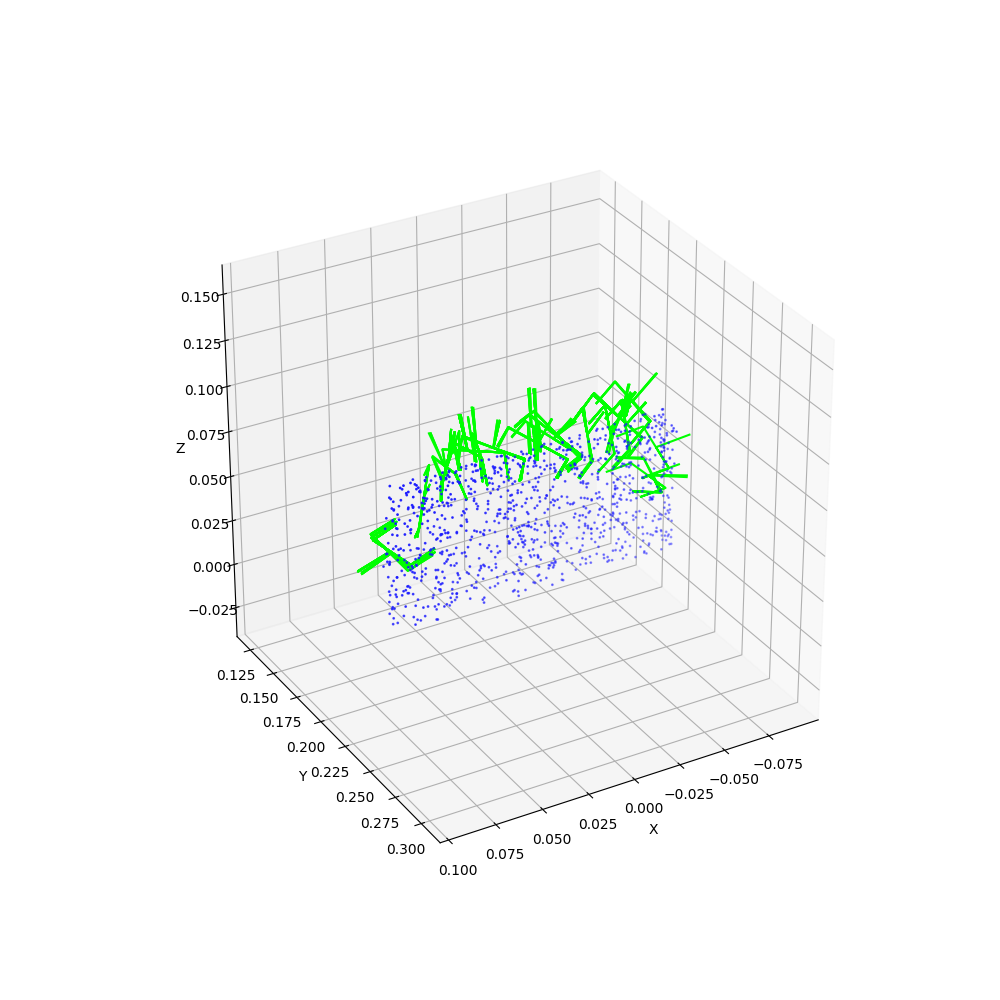
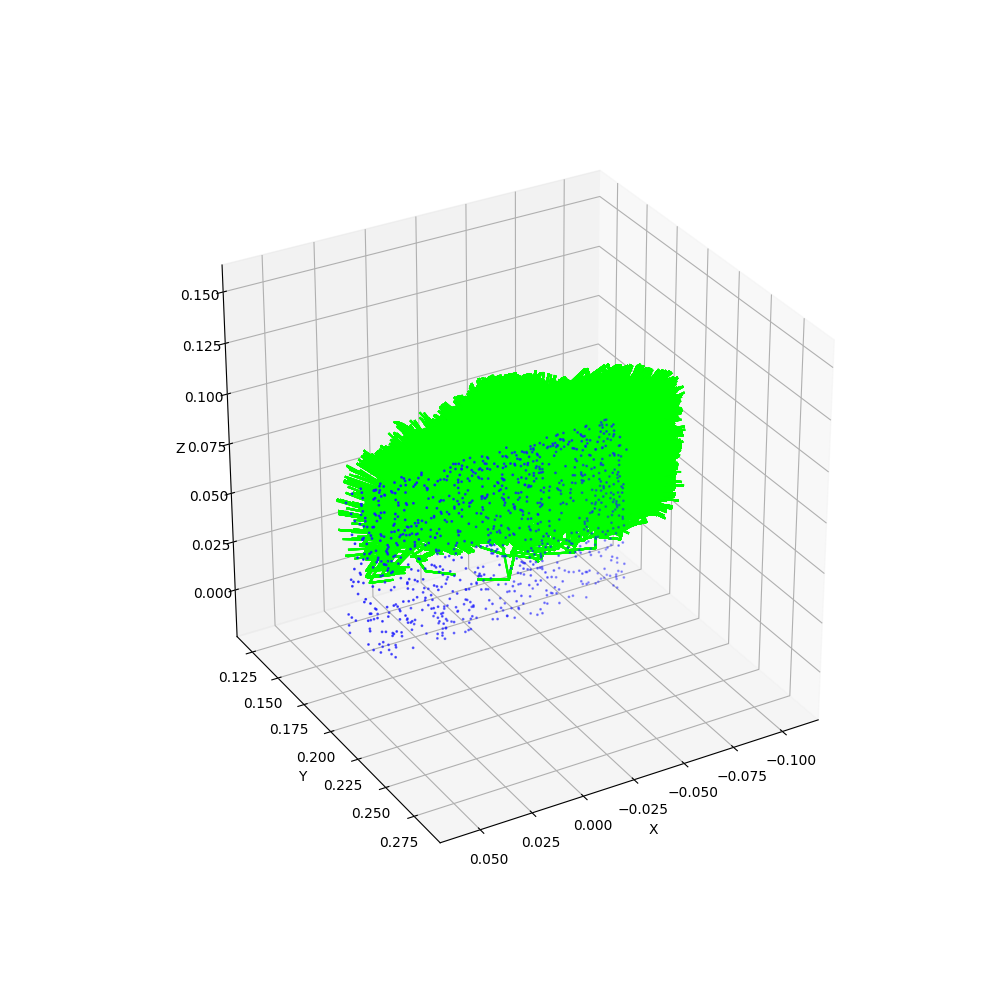
continued work on robot integration

Changed region(s): [[0.186, 0.186, 0.837, 0.868], [0.558, 0.775, 0.651, 0.837], [0.465, 0.837, 0.558, 0.868]]

diff --git a/robot_integration.py b/robot_integration.py
@@ -67,27 +67,33 @@ class PointcloudParser():
         generated_grasps, generated_scores, downsampled_pc = self.estimator.generate_and_refine_grasps(
                     pc_data_no_table)
 
-        draw_scene(downsampled_pc.cpu().numpy(), grasps=new_grasps, save_path='./demo/grasps_with_unwanted_pairs.png')
+        draw_scene(downsampled_pc.cpu().numpy(), grasps=generated_grasps, save_path='./demo/grasps_with_unwanted_pairs.png')
         #randomly shuffle the grasps as most of the grasp pairs consist of very similar grasps
-        np.random.shuffle(generated_grasps)
+        # np.random.shuffle(generated_grasps)
 
         ###Remove pairs of grasps where both are on the same side of the object.
         ###This is done by remove pairs if both grasps have a positive x value or both have a negative x value
         new_grasps = []
+        delta = np.array([0.0059, 0.0059, 0.0059])
         for idx in range(len(generated_grasps)):
             if idx % 2 == 0:
                 grasp1 = generated_grasps[idx]
                 grasp2 = generated_grasps[idx+1]
-                if np.sign(grasp1[0, 3]) != np.sign(grasp2[0, 3]):
+                #Calculate the distance between the two grasps
+                distance = np.linalg.norm(grasp1[:3, 3] - grasp2[:3, 3])
+                # print("Distance between grasps", distance)
+                if distance > 0.015:
                     #also remove grasps if the z value is less than 0.05
                     if grasp1[2, 3] > 0.05 and grasp2[2, 3] > 0.05:
+                        # grasp1[:3, 3] += delta
+                        # grasp2[:3, 3] += delta
                         new_grasps.append(grasp1)
                         new_grasps.append(grasp2)
                 
-        print("Number of grasps before removing pairs on the same side", len(generated_grasps))
-        print("Number of grasps after removing pairs on the same side", len(new_grasps))
+        print("Number of grasps before removing pairs", len(generated_grasps))
+        print("Number of grasps after removing pairs with similar grasps", len(new_grasps))
 
-        draw_scene(downsampled_pc.cpu().numpy(), grasps=new_grasps, save_path='./demo/grasps_removed_unwanted_pairs.png')
+        # draw_scene(downsampled_pc.cpu().numpy(), grasps=new_grasps, save_path='./demo/grasps_removed_unwanted_pairs.png')
         generated_grasps = new_grasps
         
         # draw_scene(pc_data_no_table, grasps=generated_grasps, save_path='./demo/grasps_before_rescale.png')
@@ -101,10 +107,11 @@ class PointcloudParser():
 
         pc_data_no_table = pc_data_no_table * scale
         draw_scene(pc_data_no_table, grasps=generated_grasps, save_path='./demo/grasps_after_rescale.png')
-        #publish the grasps to a topic
-        # self.publish_grasps(generated_grasps[:10])
-        # self.execute_grasp(generated_grasps[:10])
-        self.execute_grasp(generated_grasps)
+        if len(generated_grasps) != 0:
+            #publish the grasps to a topic
+            # self.publish_grasps(generated_grasps[:10])
+            # self.execute_grasp(generated_grasps[:10])
+            self.execute_grasp(generated_grasps)
 
 
     def listener(self):
@@ -120,7 +127,7 @@ class PointcloudParser():
         test_behavior.robot='dual'
         test_behavior.behavior='go_to_initial_pose'
         result = behaviors_service(test_behavior)
-        print("Move to initial pose result: ", result)
+        # print("Move to initial pose result: ", result)
         time.sleep(3)
 
         for idx in range(len(grasps)):
@@ -139,31 +146,31 @@ class PointcloudParser():
                     left_grasp = grasp2
                     right_grasp = grasp1
                 
-                test_behavior.right_target_pose.pose.position.x = right_grasp[0, 3] + 0.25
+                test_behavior.right_target_pose.pose.position.x = right_grasp[0, 3] #+ 0.25
                 test_behavior.right_target_pose.pose.position.y = right_grasp[1, 3]
                 test_behavior.right_target_pose.pose.position.z = right_grasp[2, 3]
                 # Convert the 3x3 rotation matrix to a quaternion
                 quaternion = self.quaternion_from_matrix(right_grasp)
-                test_behavior.right_target_pose.pose.orientation.x = quaternion[0] - 0.017
-                test_behavior.right_target_pose.pose.orientation.y = quaternion[1] - 0.017
-                test_behavior.right_target_pose.pose.orientation.z = quaternion[2] + 0.706
-                test_behavior.right_target_pose.pose.orientation.w = quaternion[3] + 0.706
+                test_behavior.right_target_pose.pose.orientation.x = quaternion[0] #- 0.017
+                test_behavior.right_target_pose.pose.orientation.y = quaternion[1] #- 0.017
+                test_behavior.right_target_pose.pose.orientation.z = quaternion[2] #+ 0.706
+                test_behavior.right_target_pose.pose.orientation.w = quaternion[3] #+ 0.706
 
-                test_behavior.left_target_pose.pose.position.x = left_grasp[0, 3] - 0.25
+                test_behavior.left_target_pose.pose.position.x = left_grasp[0, 3] #- 0.25
                 test_behavior.left_target_pose.pose.position.y = left_grasp[1, 3]
                 test_behavior.left_target_pose.pose.position.z = left_grasp[2, 3]
                 # Convert the 3x3 rotation matrix to a quaternion
                 quaternion = self.quaternion_from_matrix(left_grasp)
-                test_behavior.left_target_pose.pose.orientation.x = quaternion[0] - 0.017
-                test_behavior.left_target_pose.pose.orientation.y = quaternion[1] - 0.017
-                test_behavior.left_target_pose.pose.orientation.z = quaternion[2] + 0.706
-                test_behavior.left_target_pose.pose.orientation.w = quaternion[3] + 0.706
+                test_behavior.left_target_pose.pose.orientation.x = quaternion[0] #- 0.017
+                test_behavior.left_target_pose.pose.orientation.y = quaternion[1] #- 0.017
+                test_behavior.left_target_pose.pose.orientation.z = quaternion[2] #+ 0.706
+                test_behavior.left_target_pose.pose.orientation.w = quaternion[3] #+ 0.706
                 result = behaviors_service(test_behavior)
-                print("Move to grasp pose result: ", result)
+                # print("Move to grasp pose result: ", result)
                 time.sleep(1)
 
                 #return to initial pose
-                test_behavior.behavior='go_to_initial_pose'
+                # test_behavior.behavior='go_to_initial_pose'
                 result = behaviors_service(test_behavior)
                 time.sleep(0.1)
 

diff --git a/grasp_estimator.py b/grasp_estimator.py
@@ -132,7 +132,7 @@ class GraspEstimator:
         extra_grasps, extra_success_prob = self.final_selection(grasps, success_prob, pc)
         grasps = extra_grasps
         success_prob = extra_success_prob
-        draw_scene(pc.cpu().numpy(), grasps, save_path='./demo/pc_final.png')
+        # draw_scene(pc.cpu().numpy(), grasps, save_path='./demo/pc_final.png')
         # print("ammount of grasps after", np.array(extra_grasps).shape, len(extra_success_prob))
         return grasps, success_prob, pc
 
